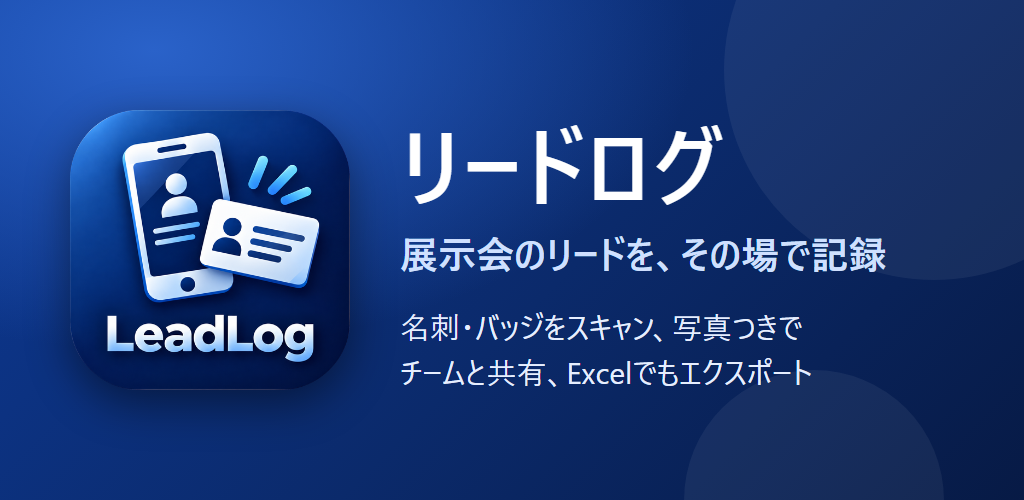
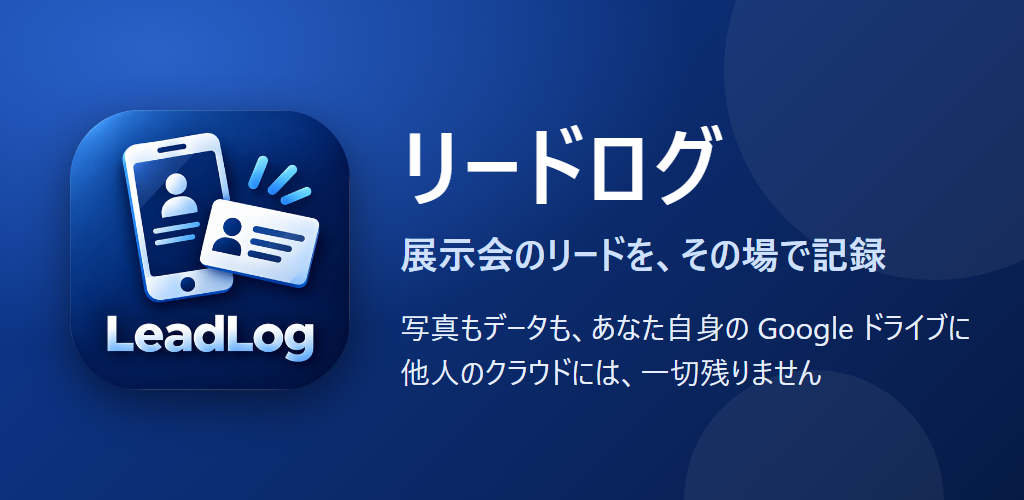
説明に「データはすべて自分の Google ドライブだけに保存される」特長を追加

Changed region(s): [[0.375, 0.63, 0.9375, 0.69], [0.375, 0.72, 0.8125, 0.78]]

diff --git a/android/store/feature.html b/android/store/feature.html
@@ -14,5 +14,5 @@ p{margin:26px 0 0;font-size:30px;line-height:1.5;color:#e6eeff}
  <div class="dot" style="width:420px;height:420px;right:-120px;top:-140px"></div>
  <div class="dot" style="width:260px;height:260px;right:80px;bottom:-130px"></div>
  <img src="icon-512.png">
- <div class="t"><h1>リードログ</h1><h2>展示会のリードを、その場で記録</h2><p>名刺・バッジをスキャン、写真つきで<br>チームと共有、Excelでもエクスポート</p></div>
+ <div class="t"><h1>リードログ</h1><h2>展示会のリードを、その場で記録</h2><p>写真もデータも、あなた自身の Google ドライブに<br>他人のクラウドには、一切残りません</p></div>
 </div>

diff --git a/index.html b/index.html
@@ -8,6 +8,7 @@
     <link rel="apple-touch-icon" href="./apple-touch-icon.png" />
     <meta name="viewport" content="width=device-width, initial-scale=1.0, viewport-fit=cover" />
     <meta name="theme-color" content="#1d4ed8" />
+    <meta name="description" content="展示会の名刺・バッジをその場で記録。写真もデータも、すべて自分の Google ドライブに保存され、他人のクラウドには残りません" />
     <title>リードログ</title>
     <!-- 選んだ配色を、画面が描かれる前に反映する（ちらつき防止）。詳しい処理は src/theme.ts -->
     <script>

diff --git a/android/store/listing-ja.md b/android/store/listing-ja.md
@@ -11,10 +11,17 @@ Play Console にそのまま貼り付けて使います。
 - ウェブサイト: https://leadlog.doitmyself.net/
 
 ## 簡単な説明（80文字まで）
-展示会で交換した名刺・バッジをその場で記録。写真つきでチーム共有、Excel出力も。
+展示会の名刺・バッジをその場で記録。写真もデータも、すべて自分の Google ドライブに保存。他人のクラウドには残りません。
 
 ## 詳しい説明（4000文字まで）
 リードログは、展示会や商談で出会った相手を、その場ですばやく記録するためのアプリです。
+
+■ 大きな特長: データは、すべてあなたの Google ドライブに
+・写真も記録も、ご自身の Google アカウントのドライブに保存されます。
+・開発者や他社のサーバー・クラウドには、データを送信も保存もしません。ほかの人のクラウドに、あなたのデータが残ることはありません。
+・データはいつでも自分で開いて、コピー・バックアップ・削除ができます。アプリを消しても、ドライブのデータは残ります。
+・アプリが見られるのは、アプリ自身が作ったファイルだけです。ドライブのほかのファイルは見えません。
+・端末を買い替えても、同じ Google アカウントでログインすれば、記録を引き継げます。
 
 ■ できること
 ・名刺やバッジをカメラで読み取り、リードとして記録
